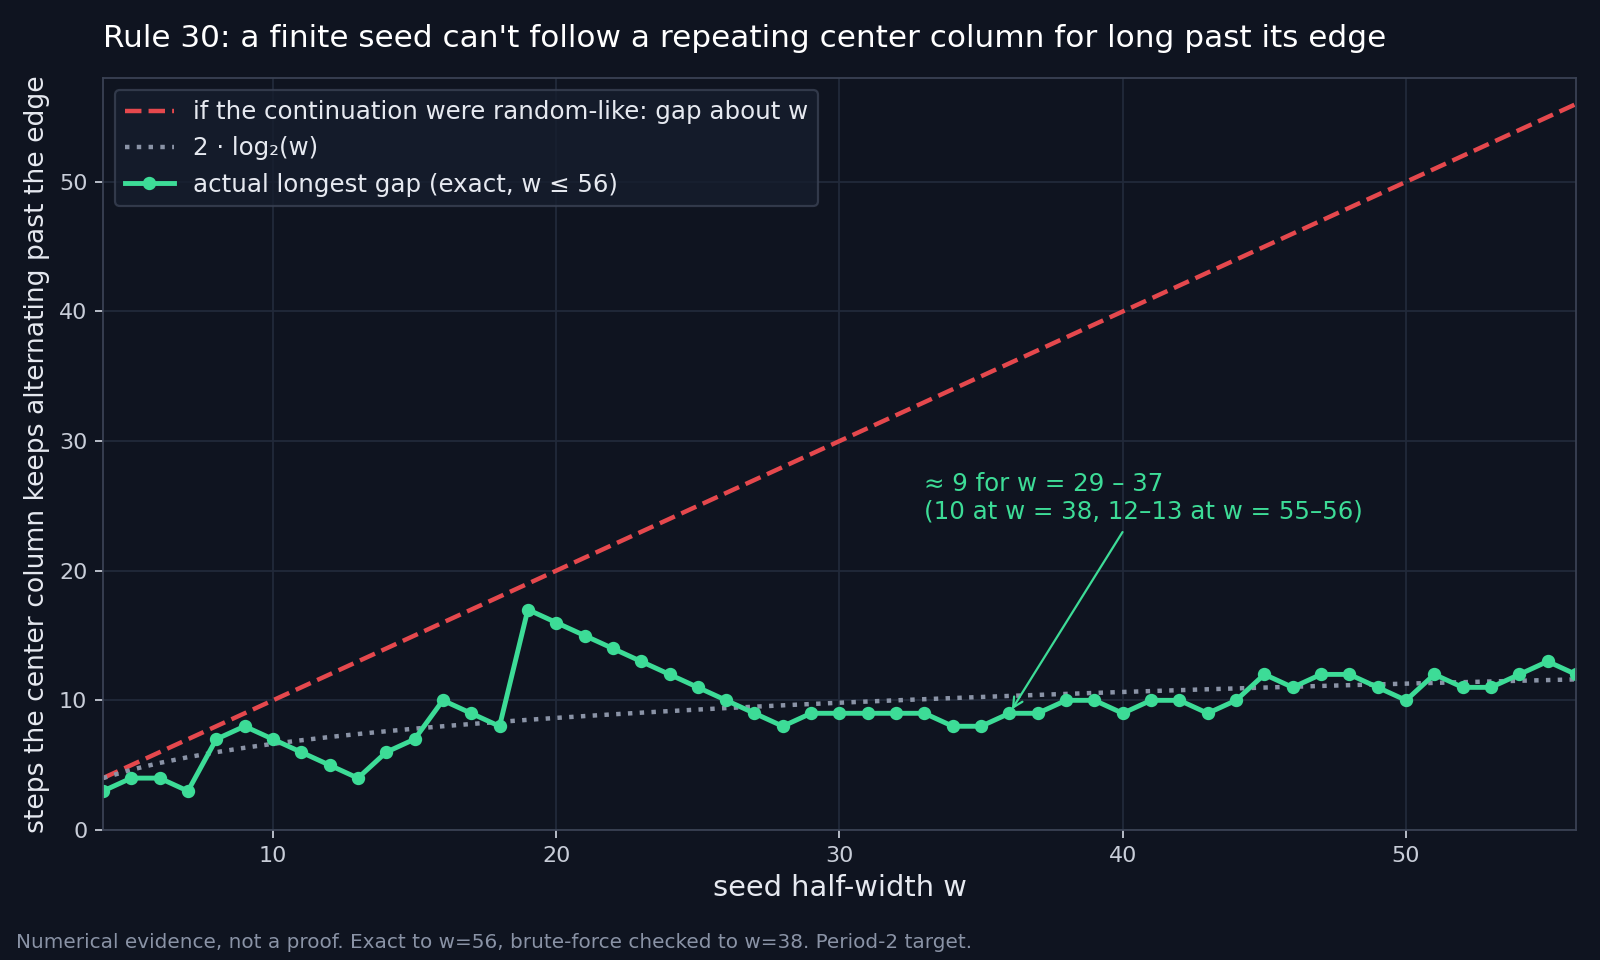
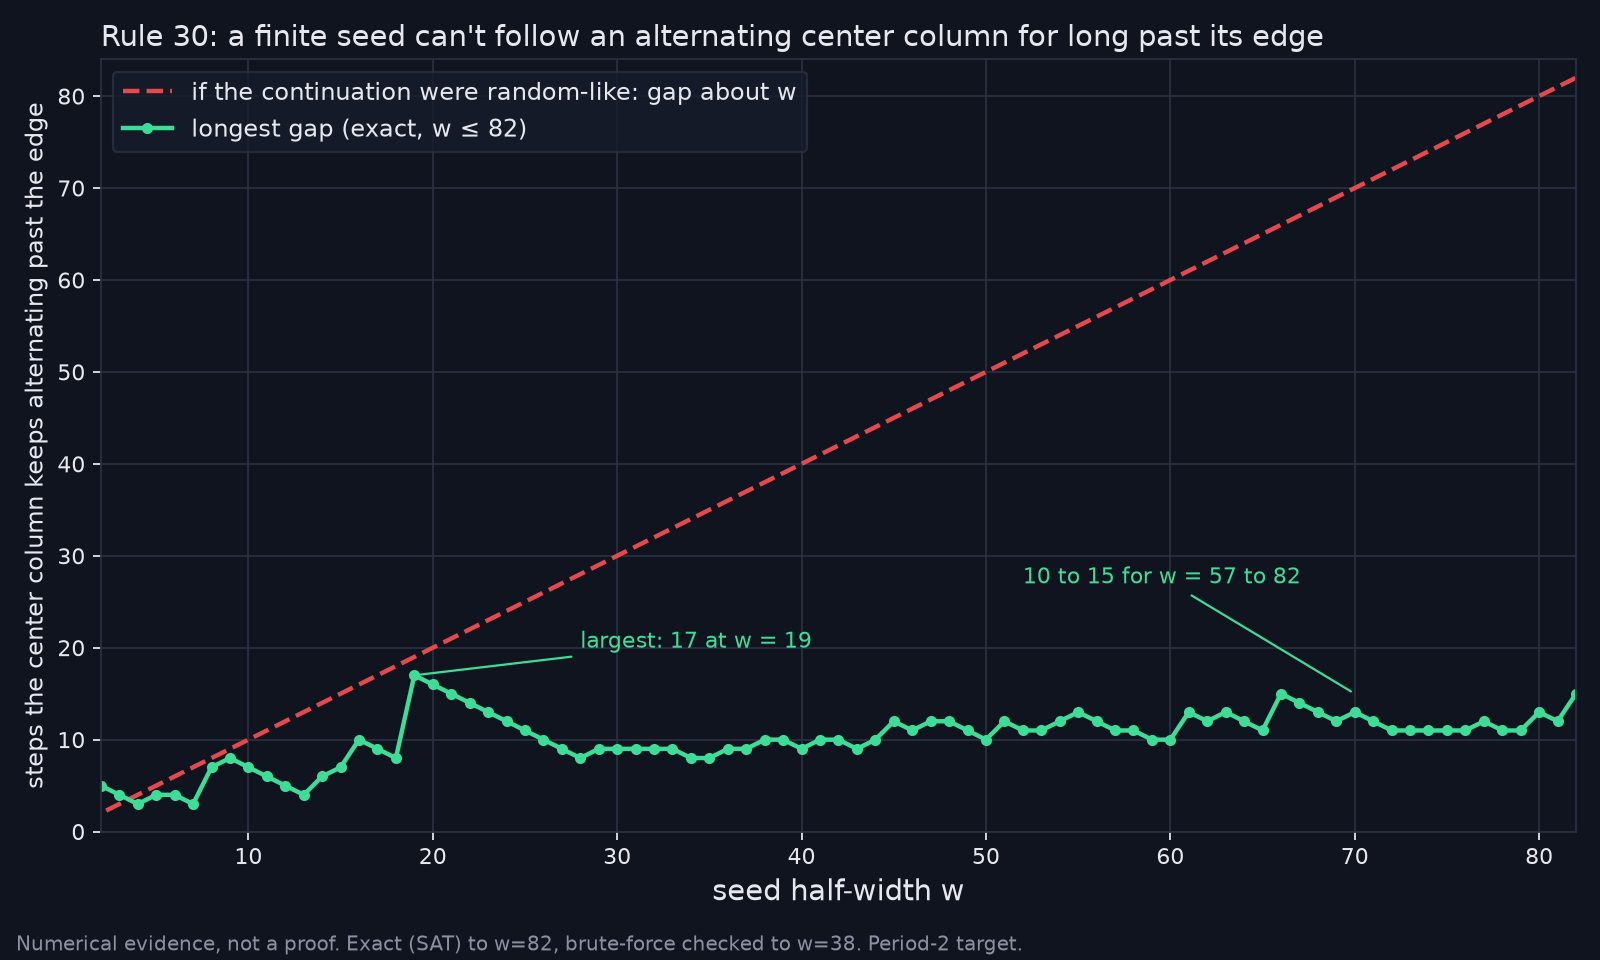
Docs brought up to date: chart redrawn to width 82, Lean results listed, credits
results/gap_chart.png is now drawn from the CSV by src/plot_gap.py and no longer
shows the 2*log2(w) line. OPEN_QUESTIONS, CREDITS, README and the note's status
line mention the repetition bound (lean/Repeat.lean) and the computer check.

diff --git a/src/plot_gap.py b/src/plot_gap.py
@@ -1,0 +1,34 @@
+"""Draw results/gap_chart.png from results/gap_period2_exact.csv.  Needs matplotlib.
+usage (from the repo root): python src/plot_gap.py"""
+import csv
+import matplotlib
+matplotlib.use("Agg")
+import matplotlib.pyplot as plt
+
+rows = [(int(r["w"]), int(r["longest_gap"])) for r in csv.DictReader(open("results/gap_period2_exact.csv"))]
+ws = [w for w, _ in rows]; gaps = [g for _, g in rows]
+wmax = max(ws)
+BG, FG, GRID = "#10141f", "#e6e8ee", "#2a3040"
+fig, ax = plt.subplots(figsize=(10, 6), dpi=160)
+fig.patch.set_facecolor(BG); ax.set_facecolor(BG)
+ax.plot([0, wmax], [0, wmax], "--", color="#e5484d", lw=2, label="if the continuation were random-like: gap about w")
+ax.plot(ws, gaps, "-o", color="#3ddc97", lw=2, ms=4, label=f"longest gap (exact, w ≤ {wmax})")
+peak = max(rows, key=lambda r: r[1])
+ax.annotate(f"largest: {peak[1]} at w = {peak[0]}", xy=peak, xytext=(peak[0] + 9, peak[1] + 3), color="#3ddc97",
+            arrowprops=dict(arrowstyle="-", color="#3ddc97", lw=1))
+late = [g for w, g in rows if w >= 57]
+if late:
+    ax.annotate(f"{min(late)} to {max(late)} for w = 57 to {wmax}", xy=(wmax - 12, max(late)), xytext=(wmax - 30, max(late) + 12),
+                color="#3ddc97", arrowprops=dict(arrowstyle="-", color="#3ddc97", lw=1))
+ax.set_xlim(2, wmax); ax.set_ylim(0, wmax + 2)
+ax.set_xlabel("seed half-width w", color=FG, fontsize=13)
+ax.set_ylabel("steps the center column keeps alternating past the edge", color=FG, fontsize=11)
+ax.set_title("Rule 30: a finite seed can't follow an alternating center column for long past its edge", color=FG, fontsize=13, loc="left")
+ax.tick_params(colors=FG); ax.grid(color=GRID, lw=0.8)
+for s in ax.spines.values(): s.set_color(GRID)
+leg = ax.legend(loc="upper left", facecolor="#161c2b", edgecolor=GRID, fontsize=11)
+for t in leg.get_texts(): t.set_color(FG)
+fig.text(0.01, 0.01, f"Numerical evidence, not a proof. Exact (SAT) to w={wmax}, brute-force checked to w=38. Period-2 target.",
+         color="#8a90a0", fontsize=9)
+fig.tight_layout(rect=(0, 0.03, 1, 1))
+fig.savefig("results/gap_chart.png", facecolor=BG)

diff --git a/OPEN_QUESTIONS.md b/OPEN_QUESTIONS.md
@@ -5,8 +5,8 @@ Pick any. Say so in an issue so we do not duplicate work.
 1. **Is this known?** Prior art on how long a finite Rule 30 seed can follow a prescribed center column past its radius. Related: Jen (1986/1990), Kopra, Condrey (arXiv:2609.09431), Rowland ("Local nested structure in rule 30", 2006). A pointer, even "this is trivially true because...", is valuable.
 2. **Independent replication.** Reimplement the gap computation from the README description (no peeking at `gapscan.c`) and compare with `results/gap_period2_exact.csv`. Disagreements are the most useful thing you can send.
 3. **Explain the small gap.** Is `gap(w) <= C log2 w` provable for some `C`? The data need `C >= 4` (gap 17 at `w = 19`) and do not distinguish a log law from other slow growth. Why the horizon jumps from 26 to 36 at `w = 19` and then holds for ten widths is unexplained too; the seeds that reach it may be the place to start. The cells just past the seed's edge take only a few dozen distinct patterns over all right halves; that structure is the likeliest handle. Rowland's period-doubling of Rule 30's edge diagonals may be relevant.
-4. **Prove it for one period above 1.** Even period 2 with a finite (non-uniform) gap for every width would be new (period 1 is a theorem here). One failed attempt, with the mechanism it found and where it stopped, is in [PERIOD2_NOTES.md](PERIOD2_NOTES.md); its section 7 lists smaller questions that came out of it.
+4. **Prove it for one period above 1.** Even period 2 with a finite (non-uniform) gap for every width would be new (period 1 is a theorem here). One failed attempt, with the mechanism it found and where it stopped, is in [PERIOD2_NOTES.md](PERIOD2_NOTES.md); its section 7 lists smaller questions that came out of it. What it did prove (section 6a, `lean/Repeat.lean`): the two columns beside the center cannot repeat a stretch longer than the pattern's left width. Closing the case from there needs a bound on zero runs inside the pattern, or some other control of repetitions late in the run.
 5. **Other rules (partly answered).** I compared the 8 left-permutive rules with `f = l XOR g(c,r)` and `g(0,0)=0` (Wolfram codes 30, 60, 90, 120, 150, 180, 210, 240) at width 12, for eight target patterns. A small gap for a *non-constant* repeating target is generic: all eight rules, even the trivial pure shift (240), give gaps of only 1 to 10. What is special about Rule 30 is that even the *constant* targets (all 0, all 1) have a finite gap (Condrey's theorem); in the other rules some finite seed follows the all-zero pattern forever. So the slow growth is less specific to Rule 30 than it may look. Later comparison at widths 14 to 26 (rules 30, 90, 120, 180, 210; targets `01`, `10`, `001`, `011`, `00101`): Rule 30's gaps are the largest (up to 16) and the most irregular; rule 120 stays around 5; rules 90, 180 and 210 stay at 1 to 3. At these widths Rule 30's growth cannot be told apart from the others'. Open: do any of the other rules' gaps grow at larger widths, and is Rule 30's growth specific to it? Is there a general theorem for left-permutive rules? Rules with `g(0,0)=1` (45, 135, ...) have no quiescent zero background and are not covered.
 6. **Larger scale.** Exhaustive enumeration to width 38 (period 2) and exact SAT to 82 (`src/mint.py`; width 82 took 3.6 hours). Extending either, adding UNSAT certificates (DRAT/LRAT) to the SAT runs, or checking larger periods, would show whether slow growth persists.
 7. **The backgrounds.** For alternating traces, the forced left half sometimes has a periodic tail, always one of a few Rule 30 backgrounds (ring sizes 7, 155, 728, with an 84-ring one that never occurs as a tail). Why exactly these? The block sizes found so far (7, 14 or 28, 31, 104 = 8 x 13) are each a power of 2 times `1 + r + r^2`, and so are the ring sizes 84 = 4 x 21 and 728 = 8 x 91 (155 = 5 x 31 is not). Caveats: this family was chosen after seeing the data, 39 of the integers up to 300 have that form, and the 34 other members up to 300 gave no background in the searches. So it looks necessary rather than generating, if it means anything. Is it a coincidence?
-8. **Lean.** State and prove any of the above, or give a cleaner formalization of the reduction.
+8. **Lean.** State and prove any of the above, or give a cleaner formalization of the reduction. Already there: the period-1 theorem (`ConstColumn.lean`), the reduction to Problem 1 (`Reduction.lean`), a forced cell under an alternating column (`Period2.lean`), and the repetition bound with the two-adjacent-columns theorem for columns 0 and -1 (`Repeat.lean`).

diff --git a/PERIOD2_NOTES.md b/PERIOD2_NOTES.md
@@ -1,6 +1,6 @@
 # Period 2: how an alternating center column works, and why I could not rule it out
 
-**Status: no proof.** This note records an attempt (Keith Adler, working with Claude, November 2026) to prove that no finite Rule 30 seed has a center column that alternates `0,1,0,1,...` forever. The attempt failed. What it found is a description of the mechanism and one small machine-checked lemma. Nothing here is a claim on Wolfram's prize, and I have not checked the literature for any of it beyond what `CREDITS.md` lists.
+**Status: no proof.** This note records an attempt (Keith Adler, working with Claude, November 2026) to prove that no finite Rule 30 seed has a center column that alternates `0,1,0,1,...` forever. The attempt failed. What it found is a description of the mechanism, a computer check with no counterexample (end of section 5), and two machine-checked lemmas (sections 1 and 6a). Nothing here is a claim on Wolfram's prize, and I have not checked the literature for any of it beyond what `CREDITS.md` lists.
 
 Throughout, the center column is `c(t) = t mod 2` (the other phase behaves the same way), `y(t)` is column 1, and `e(s) = y(2s)` is column 1 at even times.
 
@@ -123,7 +123,7 @@ So no seed with right width at most 16 and left width at most 9,986 has an alter
 
 ## 6. Why this did not become a proof
 
-* A finite seed cannot stay in the pure background: Jen's theorem (see `CREDITS.md`) allows at most one eventually periodic column, and here column 1 would be a second. So the 3s must keep arriving. That is the only thing proved about them.
+* A finite seed cannot stay in the pure background: `e` cannot become periodic (section 6a, proved in Lean; it also follows from the theorems of Jen and Kopra in `CREDITS.md`). So the 3s must keep arriving. That is the only thing proved about them.
 * Each 3 changes the required left half everywhere deeper than it can reach. The left half a seed needs is therefore a chaotic function of when the 3s arrive, and those times are produced by the chaotic part of the pattern.
 * A proof along this line has to show that those arrival times never keep matching a finite left half. I found nothing that controls them. It is the same kind of statement as Problem 1 itself.
 
@@ -141,7 +141,7 @@ Added later the same day, from a direct attack on the gap described under Kopra'
 
 **Proof.** The cell at depth `k` at time 0 depends only on `e(0), ..., e(floor((k-1)/2))` (the sideways formulas of section 1). So the left halves at times `2i` and `2*i2` agree at depths 1 to `2m`. At time `2i` the left half is zero beyond depth `w + 2i`. At time `2*i2` it has a one at depth `w + 2*i2`, because the left edge moves one cell per step, and that is deeper than `w + 2i`. If `2m >= w + 2*i2`, that one would have to be a zero.
 
-* It follows that `e` is not eventually periodic. For this case that is an elementary proof of what section 6 took from Jen's theorem.
+* It follows that `e` is not eventually periodic, which is the fact section 6 uses.
 * A block of `e` that repeats with period `j` from position `i` is shorter than `i + 2j + w/2`.
 * Checked on every seed in `[-7, 7]` inside its surviving window (`src/p2/repeat_check.py 7`): 1,616 repeating pairs, no violation.
 * **Proved in Lean** (`lean/Repeat.lean`, core only, axioms: `propext`, `Quot.sound`): `repeat_bound_alt` is the lemma as stated here. It rests on `repeat_bound`, which holds for any Rule 30 evolution, with no assumption on the center column: if columns 0 and -1 read the same for `n` steps from time `a` as from a later time `b`, then `n < W + b`, where `-W` is the seed's leftmost one. `left_det` is the step that two columns over `n` steps fix the row to depth `n` on the left.

diff --git a/README.md b/README.md
@@ -26,7 +26,7 @@ For other repeating patterns (all primitive patterns of period 3 to 6 at widths 
 
 ![gap chart](results/gap_chart.png)
 
-The chart has not been redrawn: it stops at width 56 and still shows the `2 * log2(w)` line from the second version of this note. The table and the CSV are current.
+The chart is drawn from the CSV by `src/plot_gap.py` (needs matplotlib).
 
 **Correction history.** The first version of this note said the gap "stays flat". A second version said it grows "roughly like `2 * log2(w)`", using the widths 8, 16 and 32 and leaving out the rows for widths 17 to 28, where the gap reaches 17. The table above shows every range, and the full table is in the CSV.
 
@@ -65,7 +65,7 @@ Lean: `cd lean && lake build` (Lean 4.36.0, core only, no Mathlib). This also bu
 
 ## Period 2: an attempt at a proof
 
-[PERIOD2_NOTES.md](PERIOD2_NOTES.md) records a failed attempt to prove the period-2 case, and what it found: the problem splits into a left side and a right side, the small gap comes from the right side, and an alternating center column sits inside a known Rule 30 background of spatial period 155. Two lemmas from it are proved in Lean: a forced cell (`lean/Period2.lean`) and a bound on how early the column next to the center can repeat (`lean/Repeat.lean`).
+[PERIOD2_NOTES.md](PERIOD2_NOTES.md) records a failed attempt to prove the period-2 case, and what it found: the problem splits into a left side and a right side, the small gap comes from the right side, and an alternating center column sits inside a known Rule 30 background of spatial period 155. It also records a computer check that found no counterexample among seeds with right width up to 16 and left width up to 9,986. Two lemmas from it are proved in Lean: a forced cell (`lean/Period2.lean`) and a bound on how early the column next to the center can repeat (`lean/Repeat.lean`).
 
 ## Help wanted
 

diff --git a/CREDITS.md b/CREDITS.md
@@ -8,5 +8,5 @@ Prior work this builds on (all credit to their authors; none of this repo's cont
 * D. L. Condrey, *Finite Configurations Cannot Generate a Constant Trace in Rule 30*, arXiv:2609.09431 (2026): the period-1 result with the sharp horizon, and the statement that eventual periods above 1 are open. `lean/ConstColumn.lean` is an independent re-derivation of the upper bound.
 * E. Rowland, *Local Nested Structure in Rule 30*, Complex Systems 16 (2006) 239-258: left-bijectivity, unique rightful histories, period doubling.
 * E. Jen, *Aperiodicity in one-dimensional cellular automata*, Physica D 45 (1990): a finite Rule 30 orbit has at most one eventually periodic column.
-* J. Kopra, *Rapid left expansivity, a commonality between Wolfram's Rule 30 and powers of p/q*, Theoretical Computer Science 946 (2023) 113668 (citation as given by Condrey; I read the arXiv preprint 2202.13809 by the same author on the same subject, which has a different title): for any nonzero configuration that is zero far to the left, no two adjacent Rule 30 columns are both eventually periodic. The single-column question is stated there as open.
+* J. Kopra, *Rapid left expansivity, a commonality between Wolfram's Rule 30 and powers of p/q*, Theoretical Computer Science 946 (2023) 113668 (citation as given by Condrey; I read the arXiv preprint 2202.13809 by the same author on the same subject, which has a different title): for any nonzero configuration that is zero far to the left, no two adjacent Rule 30 columns are both eventually periodic. The single-column question is stated there as open. `lean/Repeat.lean` proves this for columns 0 and -1 of Rule 30, with an explicit bound, by a direct argument; it is not a formalization of Kopra's proof and does not cover his wider class of rules.
 * S. Wolfram, *Announcing the Rule 30 Prizes* (2019), and rule30prize.org.
